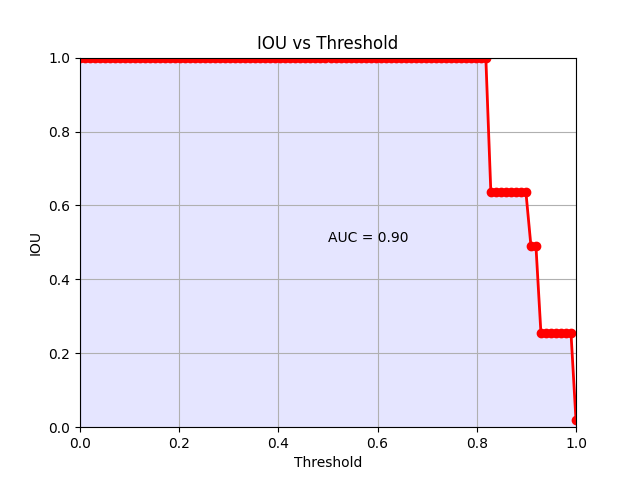
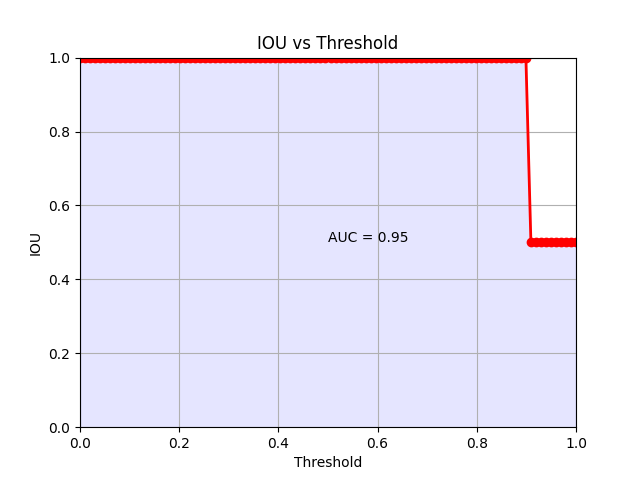
update

Changed region(s): [[0.75, 0.125, 0.9062, 0.875], [0.625, 0.4688, 0.6562, 0.5]]

diff --git a/visualization.py b/visualization.py
@@ -1,13 +1,26 @@
 import os
 import torch
+import csv
 from PIL import Image
 import clip
 import gatherfeature
 import matplotlib.pyplot as plt
 import numpy as np
-#label需要改一下
+
 device = "cuda" if torch.cuda.is_available() else "cpu"
 model, _ = clip.load("ViT-B/32", device=device)
+
+def generate_and_save_features(image_folder, features_folder):
+    if not os.path.exists(features_folder):
+        os.mkdir(features_folder)
+
+    for root, _, files in os.walk(image_folder):
+        for file in files:
+            if file.endswith('.png'):
+                image_path = os.path.join(root, file)
+                image_features = gatherfeature.get_image_features(image_path)
+                feature_path = os.path.join(features_folder, file + '.pt')
+                torch.save(image_features, feature_path)
 
 def find_best_match_description(image_path, features_folder, dataset_folder):
     image_features = gatherfeature.get_image_features(image_path)
@@ -39,7 +52,24 @@ def compare_image_descriptions(image_path1, image_path2, features_folder, datase
 
     return similarity.item()
 
-labels=[]
+def compute_all_similarities_and_labels(dataset_folder, features_folder, csv_path):
+    image_paths = get_all_image_paths(dataset_folder)
+    similarities = []
+    labels = []
+
+    with open(csv_path, 'r') as csvfile:
+        reader = csv.reader(csvfile)
+        label_dict = {(row[0], row[1]): int(row[2]) for row in reader}
+
+    for i in range(len(image_paths)):
+        for j in range(i+1, len(image_paths)):
+            similarity = compare_image_descriptions(image_paths[i], image_paths[j], features_folder, dataset_folder)
+            similarities.append(similarity)
+            labels.append(label_dict.get((os.path.basename(image_paths[i]), os.path.basename(image_paths[j])), 0))
+            print(f"Comparing '{image_paths[i]}' with '{image_paths[j]}'. Similarity: {similarity}")
+
+    return similarities, labels
+
 def compute_iou_for_threshold(similarities, labels, threshold):
     true_positives = 0
     false_positives = 0
@@ -59,7 +89,7 @@ def compute_iou_for_threshold(similarities, labels, threshold):
     iou = true_positives / (true_positives + false_positives + false_negatives)
     return iou
 
-def visual_iou(similarities):
+def visual_iou(similarities, labels):
     thresholds = np.linspace(0, 1, 100)
     ious = [compute_iou_for_threshold(similarities, labels, t) for t in thresholds]
     auc = np.trapz(ious, thresholds)
@@ -82,29 +112,20 @@ def visual_iou(similarities):
 
 def get_all_image_paths(dataset_folder):
     image_paths = []
-    adrian_folder = os.path.join('./testing')
-    for root, _, files in os.walk(adrian_folder):
+    for root, _, files in os.walk(dataset_folder):
         for file in files:
             if file.endswith('.png'):
                 image_paths.append(os.path.join(root, file))
     return image_paths
 
-
-def compute_all_similarities(dataset_folder, features_folder):
-    image_paths = get_all_image_paths(dataset_folder)
-    similarities = []
-
-    for i in range(len(image_paths)):
-        for j in range(i+1, len(image_paths)):  # 避免重复对和自身对
-            similarity = compare_image_descriptions(image_paths[i], image_paths[j], features_folder, dataset_folder)
-            similarities.append(similarity)
-            print(f"Comparing '{image_paths[i]}' with '{image_paths[j]}'. Similarity: {similarity}")
-
-    return similarities
-
 if __name__ == "__main__":
-    dataset_folder = "./dataset"
-    features_folder = "./features"
+    dataset_folder = "./testing"
+    features_folder = "./testing_features"
+    csv_path = './testing/testing_csv.csv'
 
-    similarities = compute_all_similarities(dataset_folder, features_folder)
+    # Generate and save features for images in the testing folder
+    generate_and_save_features(dataset_folder, features_folder)
+
+    # Compute similarities and visualize IOU
+    similarities, labels = compute_all_similarities_and_labels(dataset_folder, features_folder, csv_path)
     visual_iou(similarities, labels)
